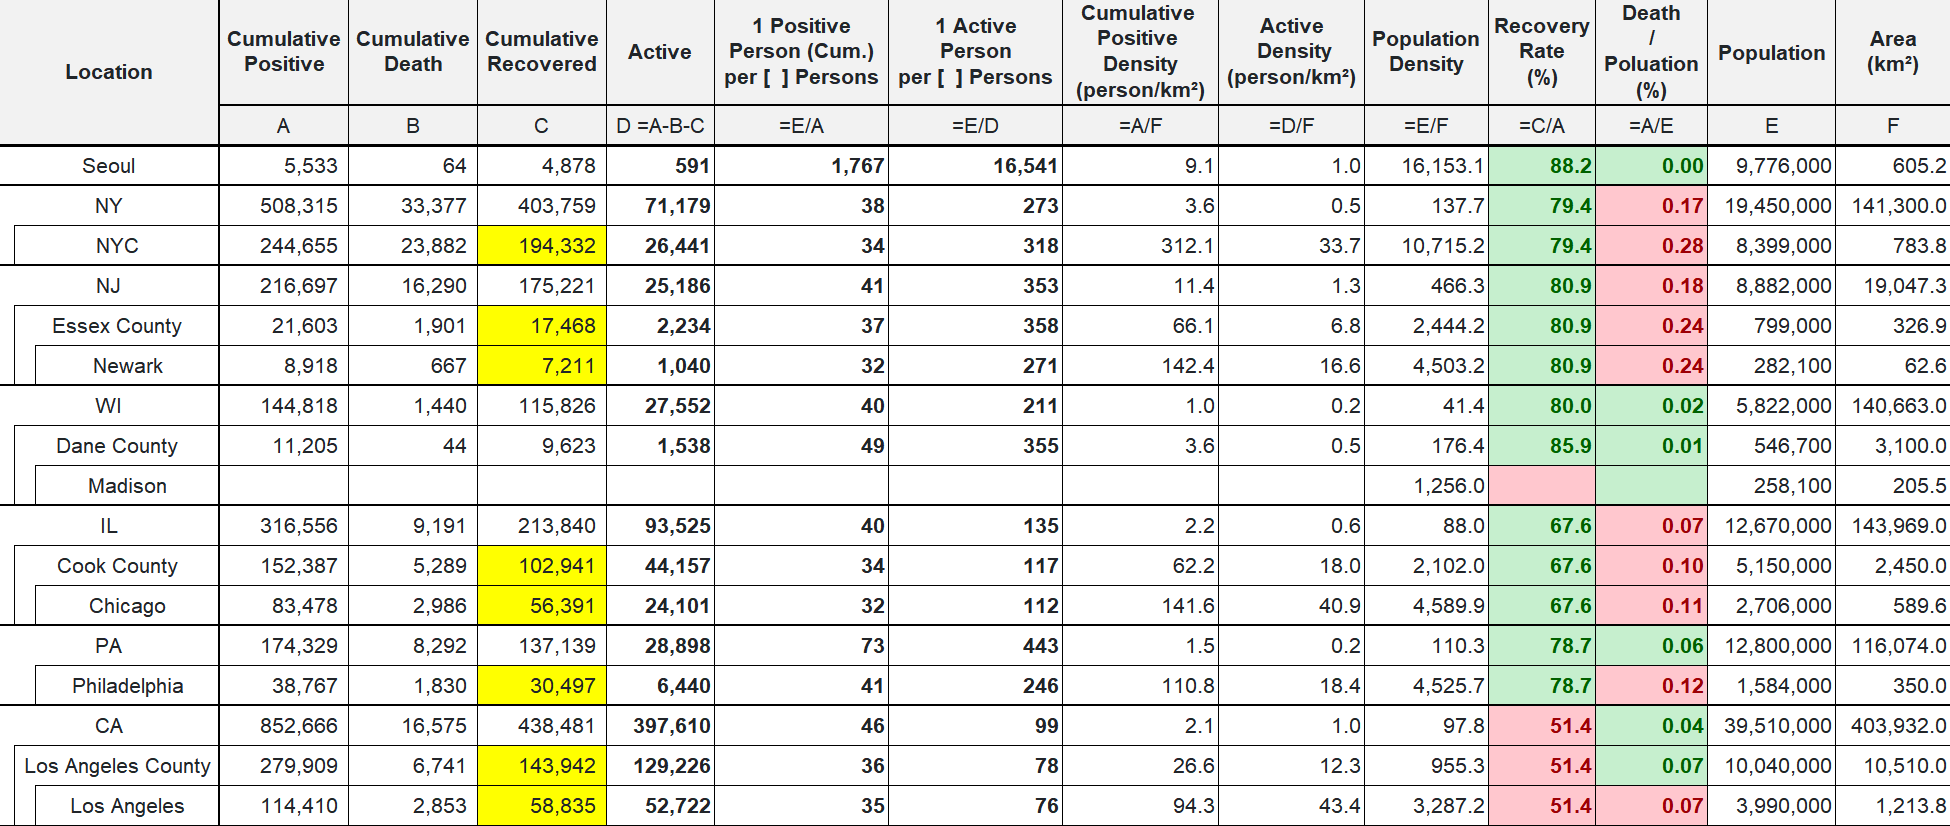
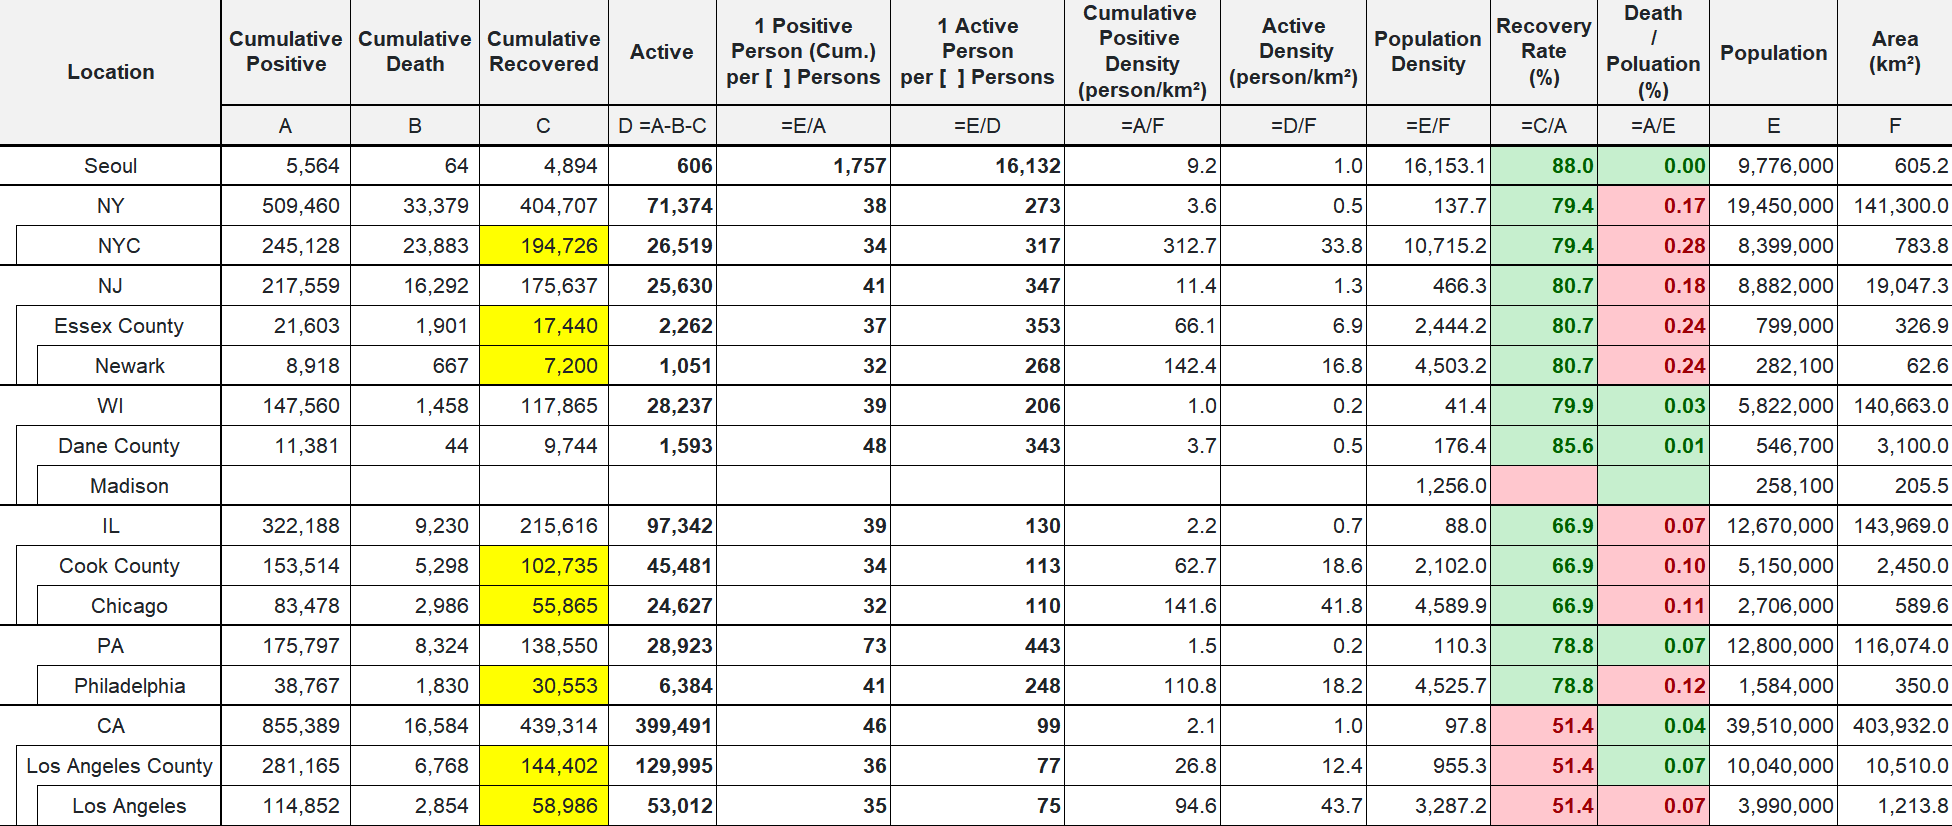
update 10/11 status

diff --git a/index.html b/index.html
@@ -19,7 +19,7 @@
 
 <body class="container-fluid">
 	<h1> CoronaV for Friends</h1>
-	<h2> Data updated at Oct 10 2020 EST 22:45</h2>
+	<h2> Data updated at Oct 11 2020 EST 23:35</h2>
 	<hr>
 	<main>
 		<div class="row">
